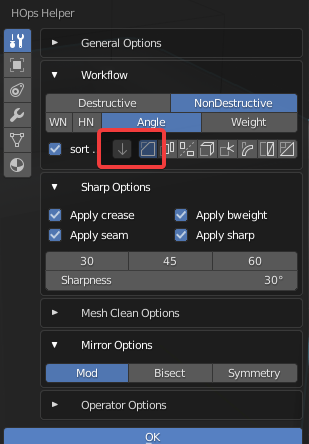
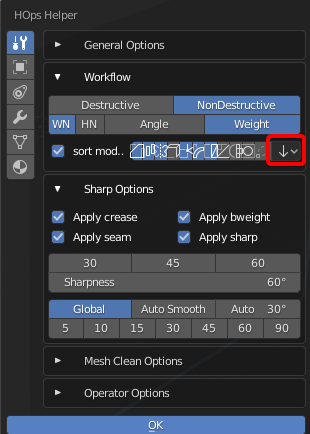
sort

diff --git a/docs/sorting.md b/docs/sorting.md
@@ -2,6 +2,16 @@
 
 ### Sorting workflows in hardOps
 
+# What / Why sort?
+
+Sorting is a new system implemented in HardOps / Boxcutter / Kitops intended to sort modifiers and keep the workflow moving with minimal modifier stack management.
+
+Sorting became possible due to the changes with bevel, mirror and the new weld. With these modifiers improved, the non-destructive workflow was able to be taken much further than before.
+
+![mir](img/faq/f63.png)
+
+> Sort can be turned off in the ctrl + ~ helper of hardops.
+
 # hopsSort
 
 The sort tickbox in hardOps and boxcutter is there for users to specify what modifiers are supposed to be where in the stack post boolean operation. Unchecked modifiers do nothing and remain where there are in the stack.
@@ -14,9 +24,8 @@ The sort tickbox in hardOps and boxcutter is there for users to specify what mod
 
 Sort can be turned off an on overall and the buttons next to it do the following:
 
-- last bevel to bottom of stack (ahead of booleans)
 - sort bevel modifiers - move bevel mods to bottom of stack
-  - non vgroup / weight models
+  - non vgroup / only vert mode bevel is left unchanged
 - sort array - ensures array is last so it shows booleans in all subparts
 - sort mirror - using modifier mirror at the end of the stack will mirror all cuts
 - sort solidify - keeps solidify later in the stack. Off by defaults. Only used in certain situations.
@@ -25,6 +34,9 @@ Sort can be turned off an on overall and the buttons next to it do the following
 - sort triangulate - keeps triangulate after boolean to allow for iterative working on an exportable mesh
 - sort decimate - moves decimate at the end of the stack (useful for rare situations)
   - recommended off for smart shapes and situations where the mod order is crucial.
+- sort remesh - ensures remesh is kept at the end of the stack
+- sort cast - ensures cast is not placed after the boolean modifier
+- sort weld (2.82) - ensures weld is kept at the end of the modifier stack.
 
 To show sort bevel in action.
 
@@ -36,12 +48,43 @@ In this example I turned on only bevel sorting. Notice that when I used the bool
 
 The down pointing arrow is for latest bevel sort. If you have more than one bevel more than likely you only want to deal with the highest level in order to cut with an independent bevel level.
 
+# Sort Last Panel
+
+![mir](img/faq/f62.png)
+
+The sort last panel contains options pertaining to the level of sort being done.
+
+> This panel should never have to be used.
+
+As of 984 HOPS will sort only the last version of every mod. This is an upgrade from previous itterations where sort would sort all levels of a sorted mod making work harder.
+
+The latest sort should make sure any mod you have to deal with is minimal and was added to help provide additional supports if needed with multi multi sorting.
+
+
+# Sort Bypass
+
+Sort can be bypassed by unchecking renderability for a modifier. This is an interim solution for now aimed to make it at least possible to bypass sorting however this will affect the final render so this is best used with consideration for render issues.
+
+Smart box is a good example of this. The mirror mod is disabled for renderability keeping it exempt from sort.
+
+![mir](img/faq/f60.gif)
+
+> In the above gif notice that if the mirror is not disabled on sort, the modifier will be moved up the stack changing the overall structure of the smart box itself. By ignoring that mod we can work on it as a form and mirror when it is truly needed.
+
+In action sometimes I will disable sort for the early stack to "freeze" that portion and work on the model with peace of mind of those mods not being disrupted.
+
+![mir](img/faq/f61.gif)
+
 ## <kbd>Ctrl</kbd> + <kbd>~</kbd> helper
 
 ![mir](img/faq/f4.png)
 
 This is how I am able to cut on the final level of a bevel without affecting previous levels.
 In this example the bevel angles are as follows.
+
+Hovering over bevel shows the tooltip.
+
+![mir](img/faq/f49.png)
 
 - 30 degrees
 - 60 degrees
@@ -72,6 +115,12 @@ Lets look at the current smart bbox and scroll through its mods to see how it is
 The mods on this box are as follows.
 
 ![mir](img/faq/f9.png)
+
+As of the latest update in 2.82 the smart box looks like this.
+
+![mir](img/faq/f9a.png)
+
+Weld is being used to simplify operations and extend the smart box to work better without shading issues. For that reason 282 or higher is recommended to enjoy smart box to the max.
 
 If we move / toggle the decimate mod this shape will be fundamentally changed. The decimate is needed for simplification and will cause issues.
 
